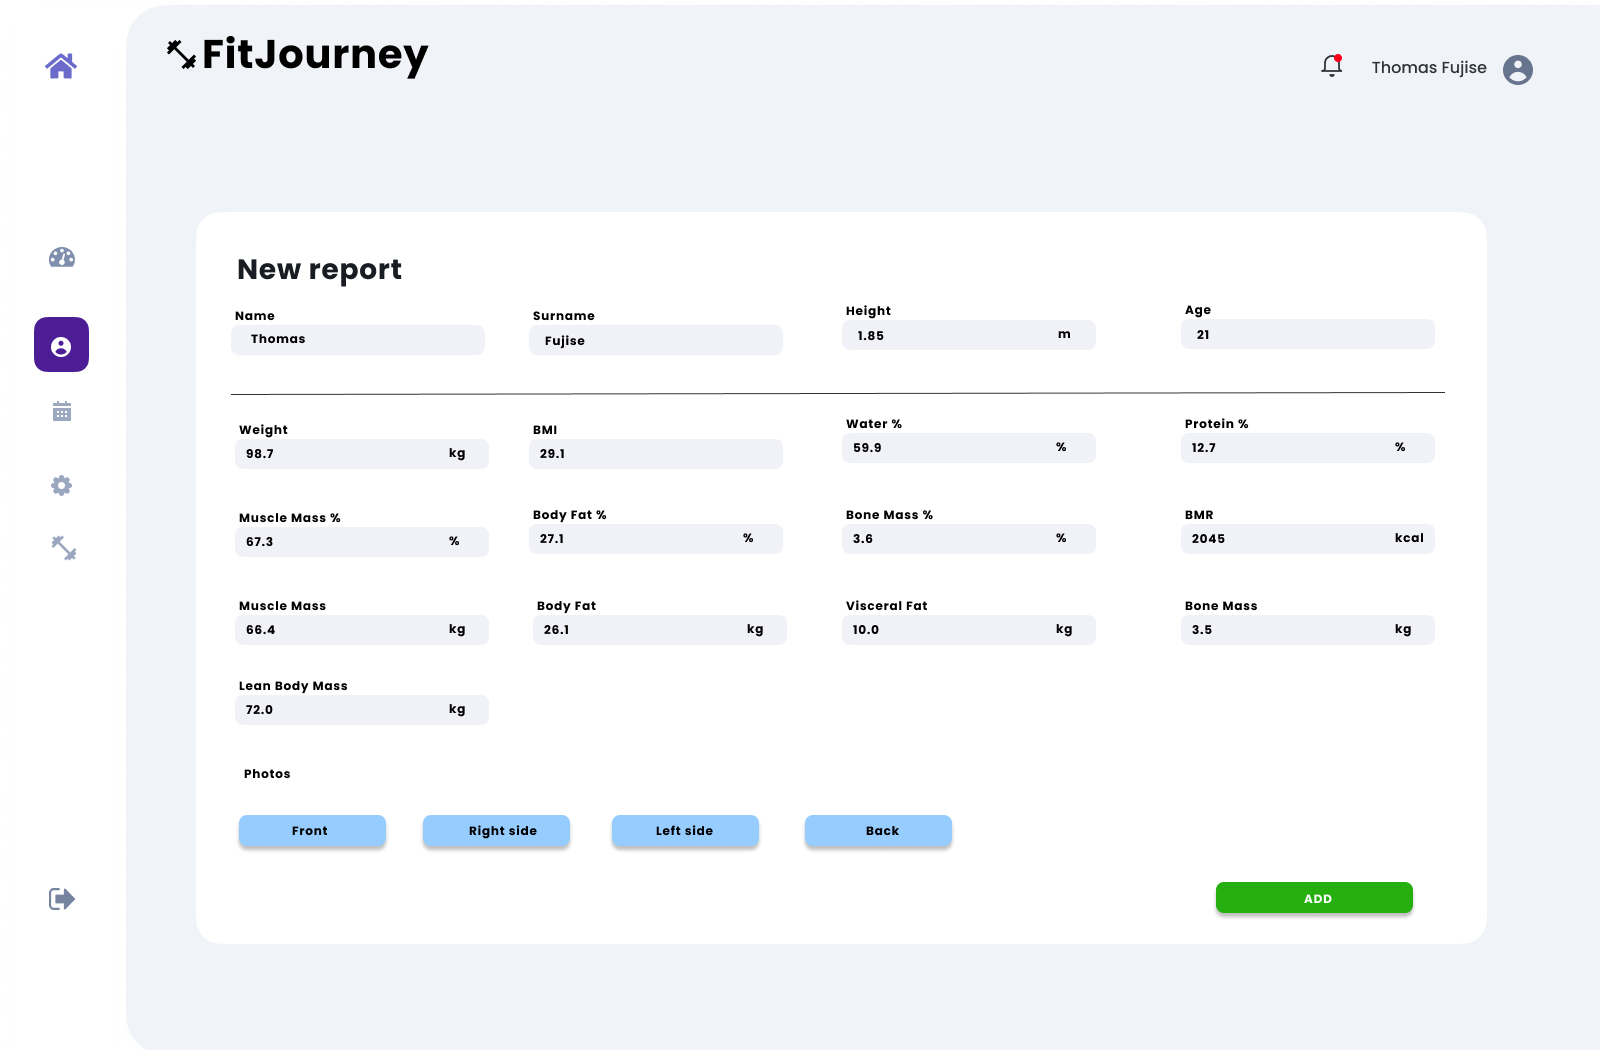
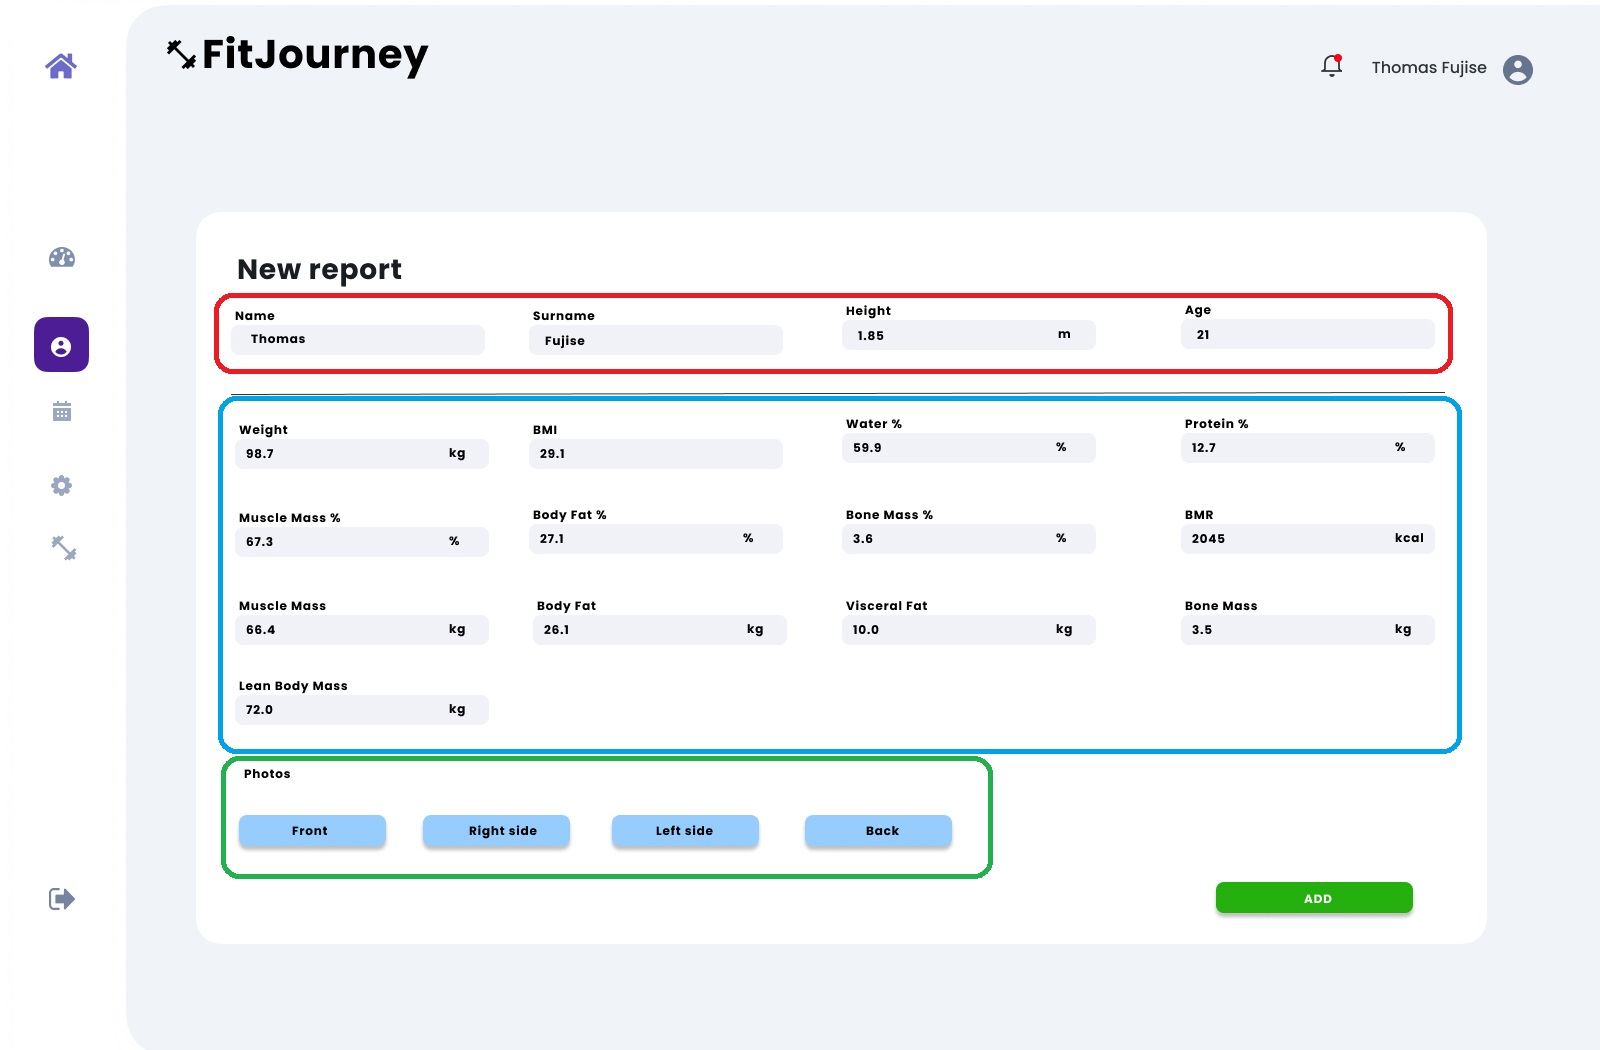
Updating interface mockups documentation

diff --git a/docs/documentation.md b/docs/documentation.md
@@ -67,22 +67,45 @@ La page profil permet au client de modifier ses informations personnelles. Plusi
 * 1 bouton pour modifier le mot de passe 
 * 1 bouton pour importer une photo de profil.
 
- Il a également accès à des statistiques sur les données des entrainements qu'il a effectué cette semaine (En dessous des informations de son compte).
+ Il a également accès à des statistiques sur les données des entrainements qu'il a effectués cette semaine (en rouge) et la liste des bilans généraux et de session que l'utilisateur a posté (en vert). Il a la possibilité d'ajouter un nouveau bilan général en cliquant sur le bouton au-dessus.
+
+
+##### Page Ajout Bilan 
+![Add coaching reports page](./mockups/Interface_mockups/client_coach_report.jpg)
+
+La page "Ajout Bilan" permet au client de noter, soit la qualité du suivi effectué par le coach, soit une session effectuée. 
+
+Dans la zone rouge, l'élément qui est évalué (un coach ou une session).
+
+Dans la zone bleue, les différents éléments à noter ainsi qu'une zone pour ajouter un commentaire.
+
+##### Page Bilan
+![Coaching report page](./mockups/Interface_mockups/general_report.jpg)
+
+La page "Bilan" permet de voir le bilan ajouté, soit un bilan sur le suivi de manière générale, soit un bilan sur une session effectuée.
+
+Dans la zone rouge, on peut voir de quel type de bilan il s'agit (Bilan général sur le coaching ou bilan d'une session). 
+
+Dans la zone verte, on retrouve le client et la date à laquel le bilan a été posté.
+
+Dans la zone bleue, on retrouve les éléments qui ont été noté par le client.
 
 ##### Page liste de nos entrainements
 ![List Workouts](./mockups/Interface_mockups/workouts_list.jpg)
 
-Cette page affiche la liste de toutes les entrainements effectués par le client. L'utilisateur peut cliquer sur chaque élément de la liste pour avoir les détails de l'entrainement
+Cette page affiche la liste de tous les entrainements effectués par le client. L'utilisateur peut cliquer sur chaque élément de la liste pour avoir les détails de l'entrainement.
 
 ##### Page détails entrainement
 ![Detail workout](./mockups/Interface_mockups/workout_details.jpg)
 
-Cette page affiche les détails d'un entrainement avec les données récupéré à l'aide de la smartwatch. On peut retrouver des informations comme : 
+Cette page affiche les détails d'un entrainement avec les données récupérées à l'aide de la smartwatch. On peut retrouver des informations comme : 
 
 * Le nombre de calories brûlées
 * Les pulsations cardiaques par minute avec un graphique montrant l'évolution durant l'entrainement
 * La durée de l'entrainement 
 * Le type d'entrainement
+
+Le client peut ajouter un bilan en cliquant sur le bouton (encadré en rouge) pour donner son ressenti sur la séance.
 
 ##### Page prochaine session
 ![Next session](./mockups/Interface_mockups/client_next_session.jpg)
@@ -91,38 +114,61 @@ Cette page affiche les prochaines sessions d'entrainements avec un coach du clie
 
 
 #### En tant que coach
-Si on se connecte à l'application en tant que coach, on a alors accès à 5 pages supplémentaire.
+Si on se connecte à l'application en tant que coach, on a alors accès à 5 autres pages.
 
 ##### Page tableau de bord
 ![Coach dashboard](./mockups/Interface_mockups/coach_dashboard.jpg)
 
-La page tableau de bord permet au coach de voir la liste des clients dont il effectue le suivi. Le coach peut cliquer sur le nom d'un de ses clients pour afficher le profil du client concerné. Il a également accès à un bouton pour ajouter un nouveau client.
-Les informations de la prochaine session avec un client sont disponible en dessous de la liste des clients. 
+La page tableau de bord permet au coach de voir la liste des clients (en rouge) dont il effectue le suivi. Le coach peut cliquer sur le nom d'un de ses clients pour afficher le profil du client concerné. 
+
+Il a également accès à un bouton pour ajouter un nouveau client (en bleu).
+Les informations de la prochaine session avec un client sont disponibles au-dessus de la liste des clients (en vert). 
 
 ##### Page Ajout de client 
 ![Coach Add Client](./mockups/Interface_mockups/add_client.jpg)
 
-La page ajout de client permet au coach d'effectuer la prise en charge d'un nouveau client. Le coach peut séléctionner un compte déjà existant (si le client en a déjà créé un) ou créer un nouveau compte client. Si le coach séléctionne un compte déjà existant les champs se remplisse automatiquement.
+La page ajout de client permet au coach d'effectuer la prise en charge d'un nouveau client. Si le client possède déjà un compte, le coach peut séléctionner un compte déjà existant (en vert) ou créer un nouveau compte client. 
+
+Si le coach séléctionne un compte déjà existant les champs se remplisse automatiquement. Il faudra uniquement séléctionner le type d'abonnement souhaité (en rouge)
 
 ##### Page profil client
 ![Client profil](./mockups/Interface_mockups/profile_with_coach_option.jpg)
 
-La page profil client permet au coach de visionner le profil de ses clients. Plusieurs boutons supplémentaires sont disponibles :
+La page profil client permet au coach de visionner le profil de ses clients (en bleu). Plusieurs boutons sont disponibles :
 
-* 1 bouton pour le changement de la carte de membre
-* 1 bouton pour le renouvellement de l'abonnement
-* 1 bouton pour l'annulation de l'abonnement 
-* Importation des programmes
+* 1 bouton pour le changement de la carte de membre (Bouton bleu)
+* 1 bouton pour le renouvellement de l'abonnement (Bouton vert)
+* 1 bouton pour l'annulation de l'abonnement (Bouton rouge)
 
-##### Page Paiement
+Il peut également voir les graphiques/statistiques disponibles sur le profil.
+
+Le coach peut ajouter les nouveaux programmes du client (en rouge) à l'aide des boutons d'importation (1 bouton pour le programme d'entrainement et 1 bouton pour le programme de nutrition). Les anciens programmes sont disponibles en cliquant sur les boutons du programme souhaité (bouton vert et orange), leurs dates d'importation sont affichées à côté.
+
+Dans la zone verte, on peut retrouver les différents bilan de satisfaction que le client a ajouté. En haut de cette zone, un bouton d'ajout de bilan est disponible. Il va permettre d'effectuer le bilan du client et d'ajouter les nouvelles informations (Poids, Masse graisseuse, etc)
+
+##### Page Bilan client
+![Bilan client](./mockups/Interface_mockups/coach_report.jpg)
+
+
+La page Bilan client permet au coach d'ajouter le bilan d'un client.
+
+Dans la zone rouge, on retrouve les infos qui changent le moins voire jamais (Nom, taille ou encore l'âge).
+
+Dans la zone bleue, les informations importantes qui ont pu être récupérées suite à la pesée.
+
+Dans la zone verte, il est possible d'ajouter des photos du physique du client pour pouvoir éventuellement avoir des avant/après en guise de comparaison.
+
+##### Page Abonnement
 ![Coach payment](./mockups/Interface_mockups/payment.jpg)
 
-La page paiement permet de valider le paiement d'un client (Aucune transaction n'est effectué par l'application). Le coach peut séléctionner le type d'abonnement que le client souhaite prendre, la date d'échéance du nouvel abonnement séléctionné ainsi que son coût seront affichés.
+La page abonnement permet de valider le paiement d'un client (Aucune transaction n'est effectué par l'application). Le coach peut séléctionner le type d'abonnement que le client souhaite prendre, la date d'échéance du nouvel abonnement séléctionné ainsi que son coût seront affichés.
 
 ##### Page Calendrier
 ![Coach calendar](./mockups/Interface_mockups/coach_calendar.jpg)
 
-La page calendrier permet au coach d'avoir accès à un calendrier et de visionner les rendez-vous enregistré à la date séléctionné. Un bouton pour ajouter une nouvelle session avec un client est disponible. Le coach doit seulement renseigner :
+La page calendrier permet au coach d'avoir accès à un calendrier et de visionner les rendez-vous enregistré à la date séléctionné. Les sessions enregistrés sont affichés dans la zone rouge, avec quelques détails sur la séance.
+
+Dans la zone verte, un bouton pour ajouter une nouvelle session avec un client est disponible. Le coach doit renseigner :
 
 * Le nom du client (Liste déroulante parmis ses clients)
 * L'heure de la session

diff --git a/docs/logbook.md b/docs/logbook.md
@@ -169,3 +169,4 @@ Pour le bilan, les données que le coach devra renseigner à l'aide d'une balanc
 * Protein
 * Body Age
 
+J'ai pu terminé les nouvelles maquettes, j'ai rajouter une page bilan de session pour l'utilisateur ainsi qu'une page bilan "général" pour noter la qualité du coaching. Du côté coach, j'ai rajouté la page pour effectuer le bilan général avec les informations mentionnées au-dessus. 
